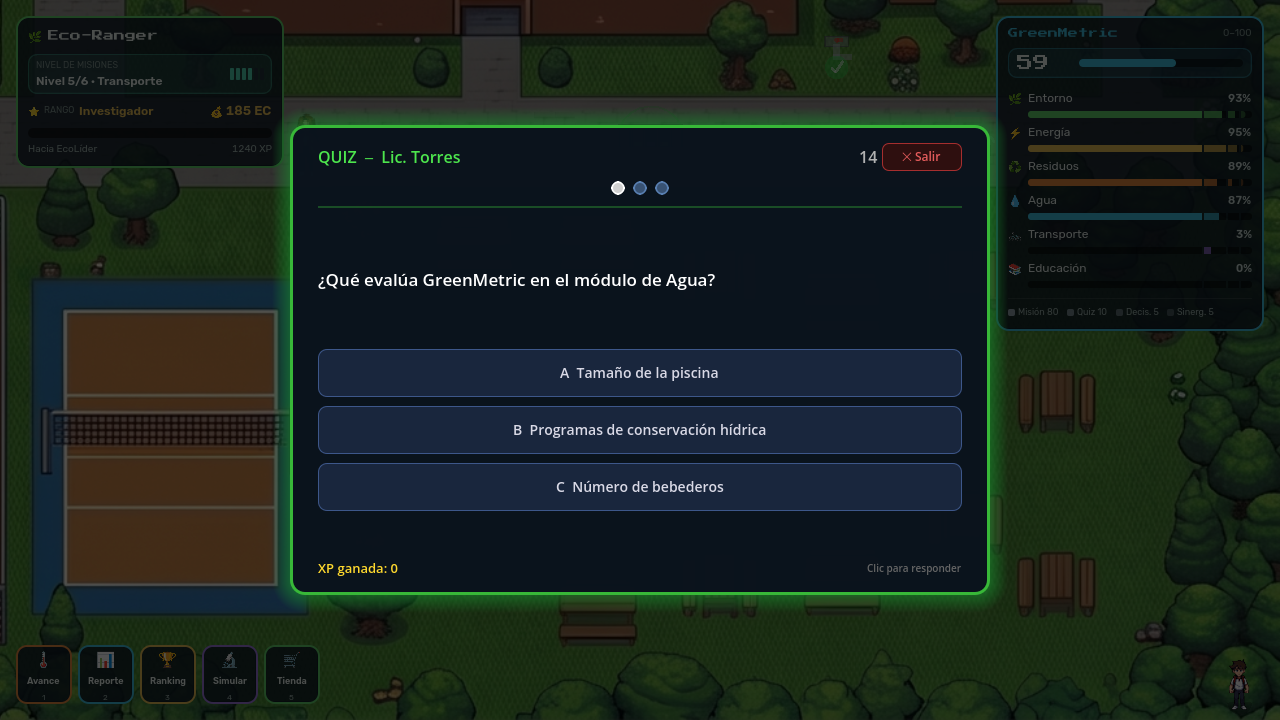
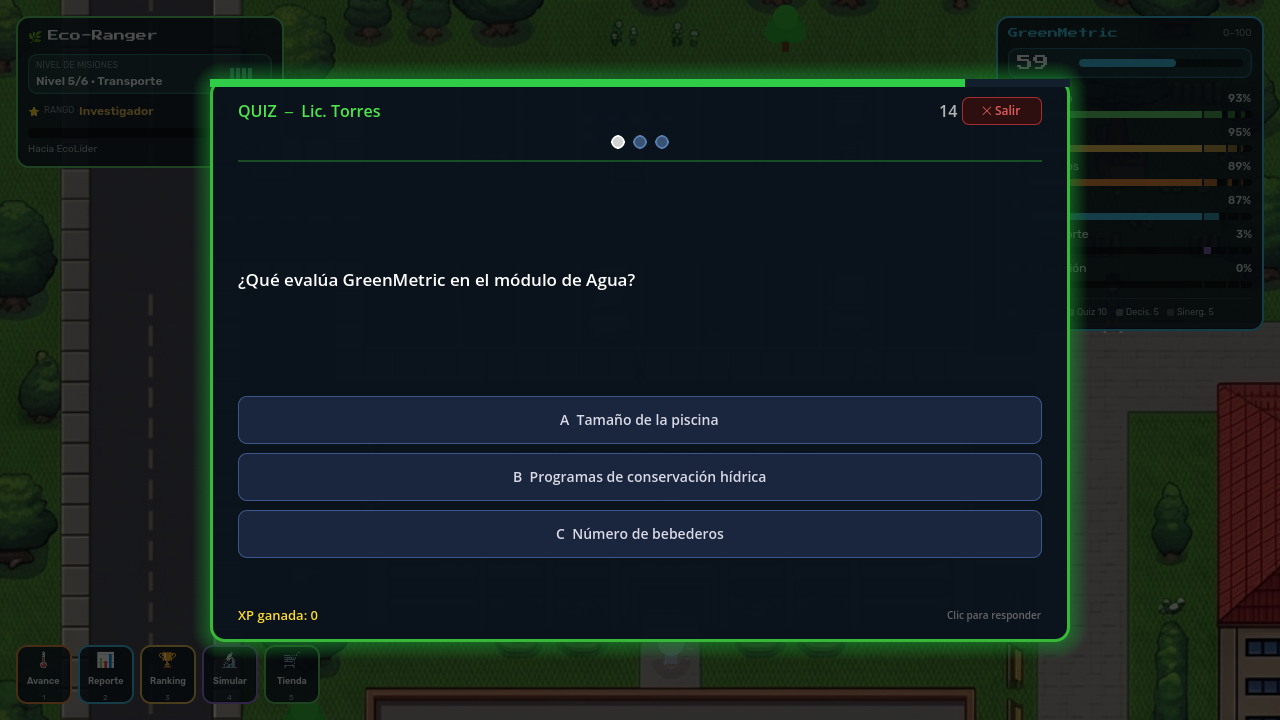
npc por nivel, quiz de una sola vez y textos largos que no se salen
- Cada NPC atiende desde su nivel (NIVEL_NPC); el Rector, desde el inicio.
  Bloqueado se ve apagado y la E avisa desde qué nivel. Vale para los dos
  caminos: el NPC del mapa y "Hablar" dentro del edificio.
- El quiz de cada NPC (y el minijuego de Yulimar) se hace una sola vez;
  después el NPC repite su explicación y avisa. El minijuego daba XP y
  EcoCredits cada vez que se jugaba.
- Quiz y test: las opciones parten en líneas, el panel pasa a 860 px y
  crece con el contenido. La barra de tiempo se dibujaba fuera del panel.
- test_quiz_textos revisa las 39 preguntas; test_npcs_nivel, el bloqueo.
- Manual v0.3 con las capturas nuevas.

diff --git a/docs/manual_usuarios.md b/docs/manual_usuarios.md
@@ -6,7 +6,7 @@
 
 **Universidad Dr. Rafael Belloso Chacín (URBE)** · Maracaibo, Venezuela
 **Estado:** 🚧 **BORRADOR — no entregar en esta forma**
-**Versión:** 0.2 · **Fecha:** 2026-10-30
+**Versión:** 0.3 · **Fecha:** 2026-10-30
 **Dirigido a:** estudiantes usuarios del sistema y al personal docente o administrativo que lo supervise.
 
 ---
@@ -256,6 +256,21 @@ Los **NPC** (personajes no jugadores) son los coordinadores de cada área del ca
 
 Al acercarse y pulsar **E**, el NPC explica el módulo GreenMetric que le corresponde: qué mide, por qué importa, y qué se espera del estudiante. Es el contenido teórico del juego.
 
+**Cada NPC atiende desde su nivel.** Todos están en el campus desde el principio, pero solo se puede hablar con los del nivel en curso o anteriores. Así el estudiante aprende el contenido del nivel en el que está. Los que todavía no atienden se ven **apagados**; al pulsar **E** junto a ellos aparece desde qué nivel están disponibles.
+
+| Disponible desde | NPC |
+|---|---|
+| El inicio | Rector Morales (el tutorial manda a hablar con él primero) |
+| Nivel 1 | Ing. Ramírez, Sr. Blanco |
+| Nivel 2 | Prof. González, Dr. Pérez, Ing. Herrera, Técn. Ruiz, Coord. Salinas |
+| Nivel 3 | Yulimar |
+| Nivel 4 | Lic. Torres |
+| Nivel 5 | Carlos |
+| Nivel 6 | Dra. Luna |
+
+![Figura 8b. NPC que todavía no atiende: se ve apagado y el aviso indica desde qué nivel.](manual/capturas/npc_bloqueado.png)
+*Figura 8b. NPC que todavía no atiende: se ve apagado y el aviso indica desde qué nivel.*
+
 ![Figura 8. Diálogo con el Rector Morales, con su retrato.](manual/capturas/dialogo.png)
 *Figura 8. Diálogo con el Rector Morales, con su retrato.*
 
@@ -268,10 +283,11 @@ Cómo funciona:
 - Cada pregunta tiene **15 segundos** y una barra que muestra el tiempo restante. Si se agota, cuenta como fallo y el juego pasa a la siguiente.
 - Al responder, el juego avisa de inmediato si fue correcto y, **si se falló, muestra cuál era la respuesta correcta**. Después de un segundo y medio continúa solo.
 - Acertar varias seguidas activa una **racha**, que da experiencia extra.
-- **Solo el primer intento del cuestionario completo suma al tramo *Quiz*** del panel GreenMetric. Se puede volver a hacerlo para repasar, pero esa repetición ya no cambia el puntaje de comprensión.
+- **Cada cuestionario se responde una sola vez.** Al volver a hablar con el NPC, repite su explicación —sirve para repasar— y avisa que el cuestionario ya se hizo. Lo mismo pasa con el minijuego de clasificación de Yulimar.
+- Si el estudiante sale a mitad del cuestionario, no cuenta como hecho y puede volver a empezarlo.
 - Un cuestionario completo sin ningún fallo otorga la insignia **⭐ Puntaje Perfecto**.
 
-> **Por qué solo cuenta el primer intento.** Si la repetición sumara, bastaría con reintentar hasta acertar por descarte y el tramo de comprensión dejaría de medir comprensión. Repetir sigue siendo útil para estudiar; lo que no hace es inflar el puntaje.
+> **Por qué no se repite.** Si se pudiera repetir, bastaría con reintentar hasta acertar por descarte y el tramo *Quiz* dejaría de medir comprensión. Para repasar está la explicación del NPC, que sí se puede volver a escuchar, y el test de cierre de cada nivel.
 
 ![Figura 9. Cuestionario de la Lic. Torres (Uso del Agua).](manual/capturas/quiz.png)
 *Figura 9. Cuestionario de la Lic. Torres (Uso del Agua).*
@@ -545,6 +561,8 @@ El progreso está ligado a la **cuenta**, no a la computadora: se puede empezar 
 | "Correo no permitido" al registrarse | El dominio del correo no está en la lista autorizada | Usar un correo de un dominio permitido; el mensaje indica cuáles. |
 | Olvidé mi contraseña | — | Avisarle al docente, que la cambia en el momento. La pantalla de recuperación por correo todavía no está en servicio. |
 | Pulso **E** y no pasa nada | El personaje está demasiado lejos | Acercarse más al NPC o al punto de la misión. |
+| Un NPC se ve apagado y no habla | Atiende desde un nivel posterior | Completar el nivel en curso. El aviso indica desde qué nivel está disponible. |
+| El NPC ya no me hace el cuestionario | Ya se respondió | Es normal: cada cuestionario se hace una sola vez. |
 | Una misión dice que falta una herramienta | No se ha comprado el kit correspondiente | Abrir la tienda (tecla **5**) y comprarlo. El juego señala cuál. |
 | No alcanzan los EcoCredits | Se gastaron en artículos opcionales | Completar más misiones de los niveles ya abiertos: cada una da EcoCredits. |
 | El juego se ve cortado o desalineado | Ventana muy pequeña, o zoom del navegador alterado | Poner el zoom en 100 % (**Ctrl + 0**) y maximizar la ventana. |
